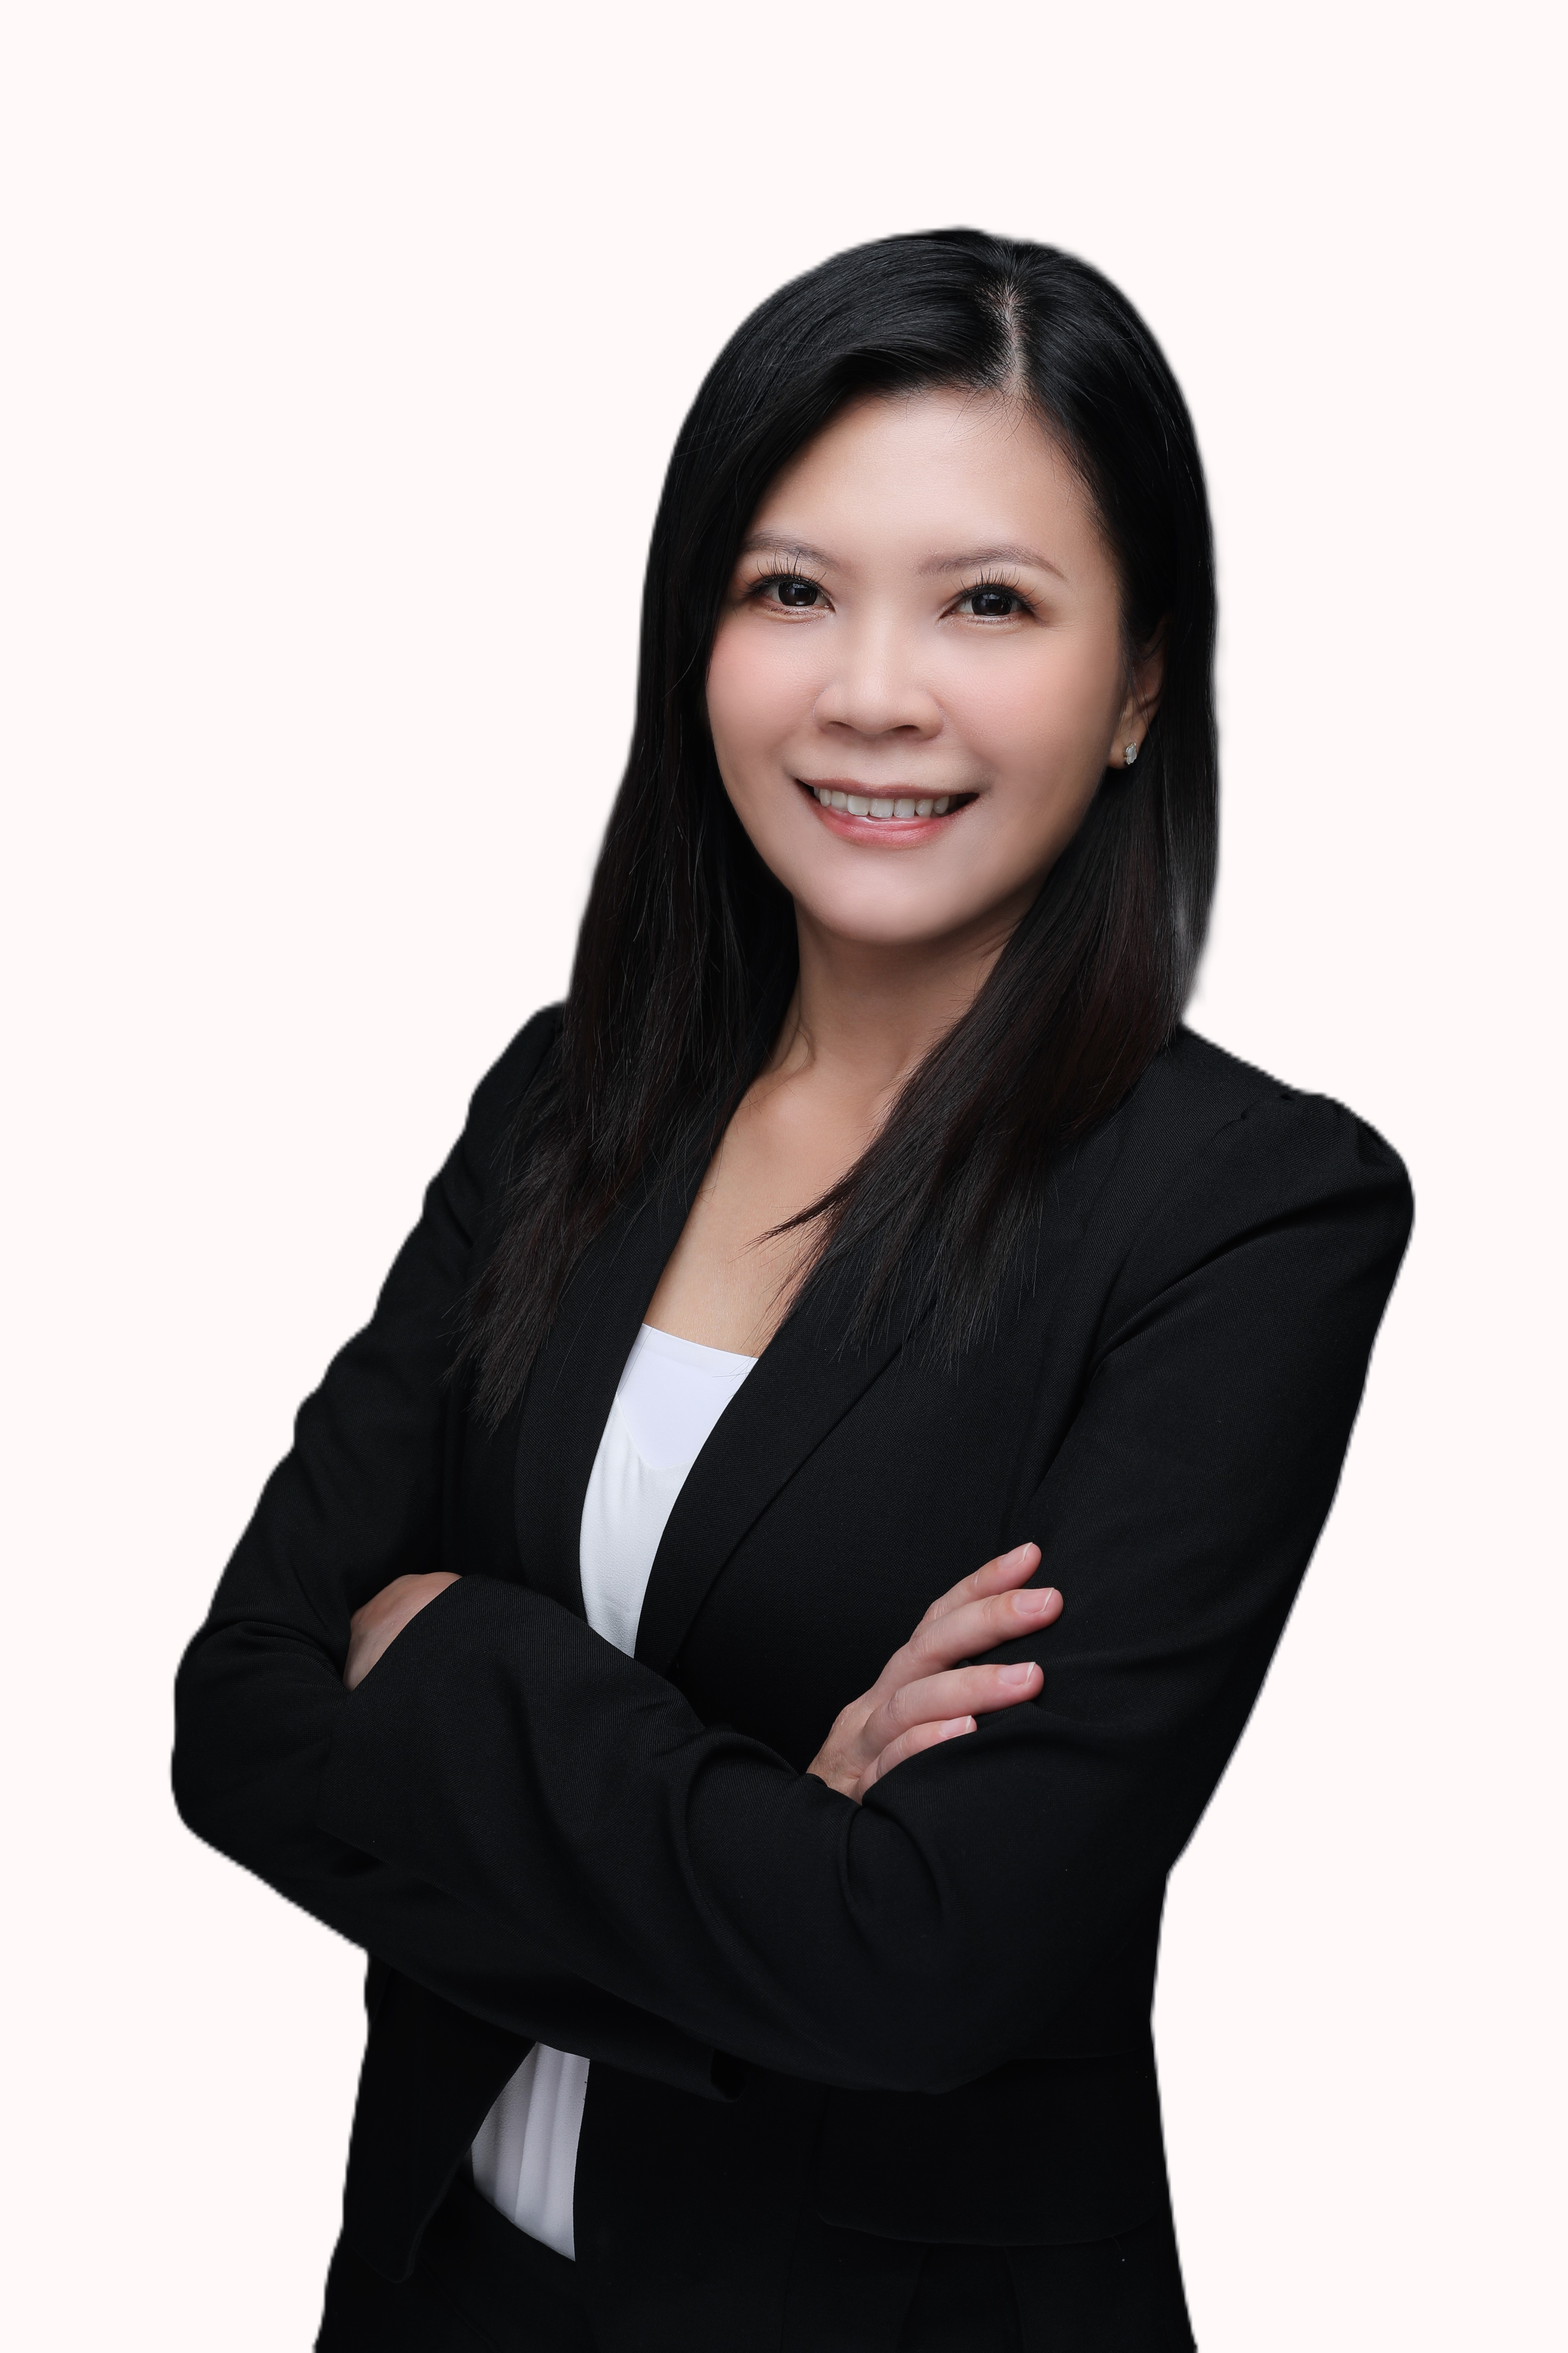
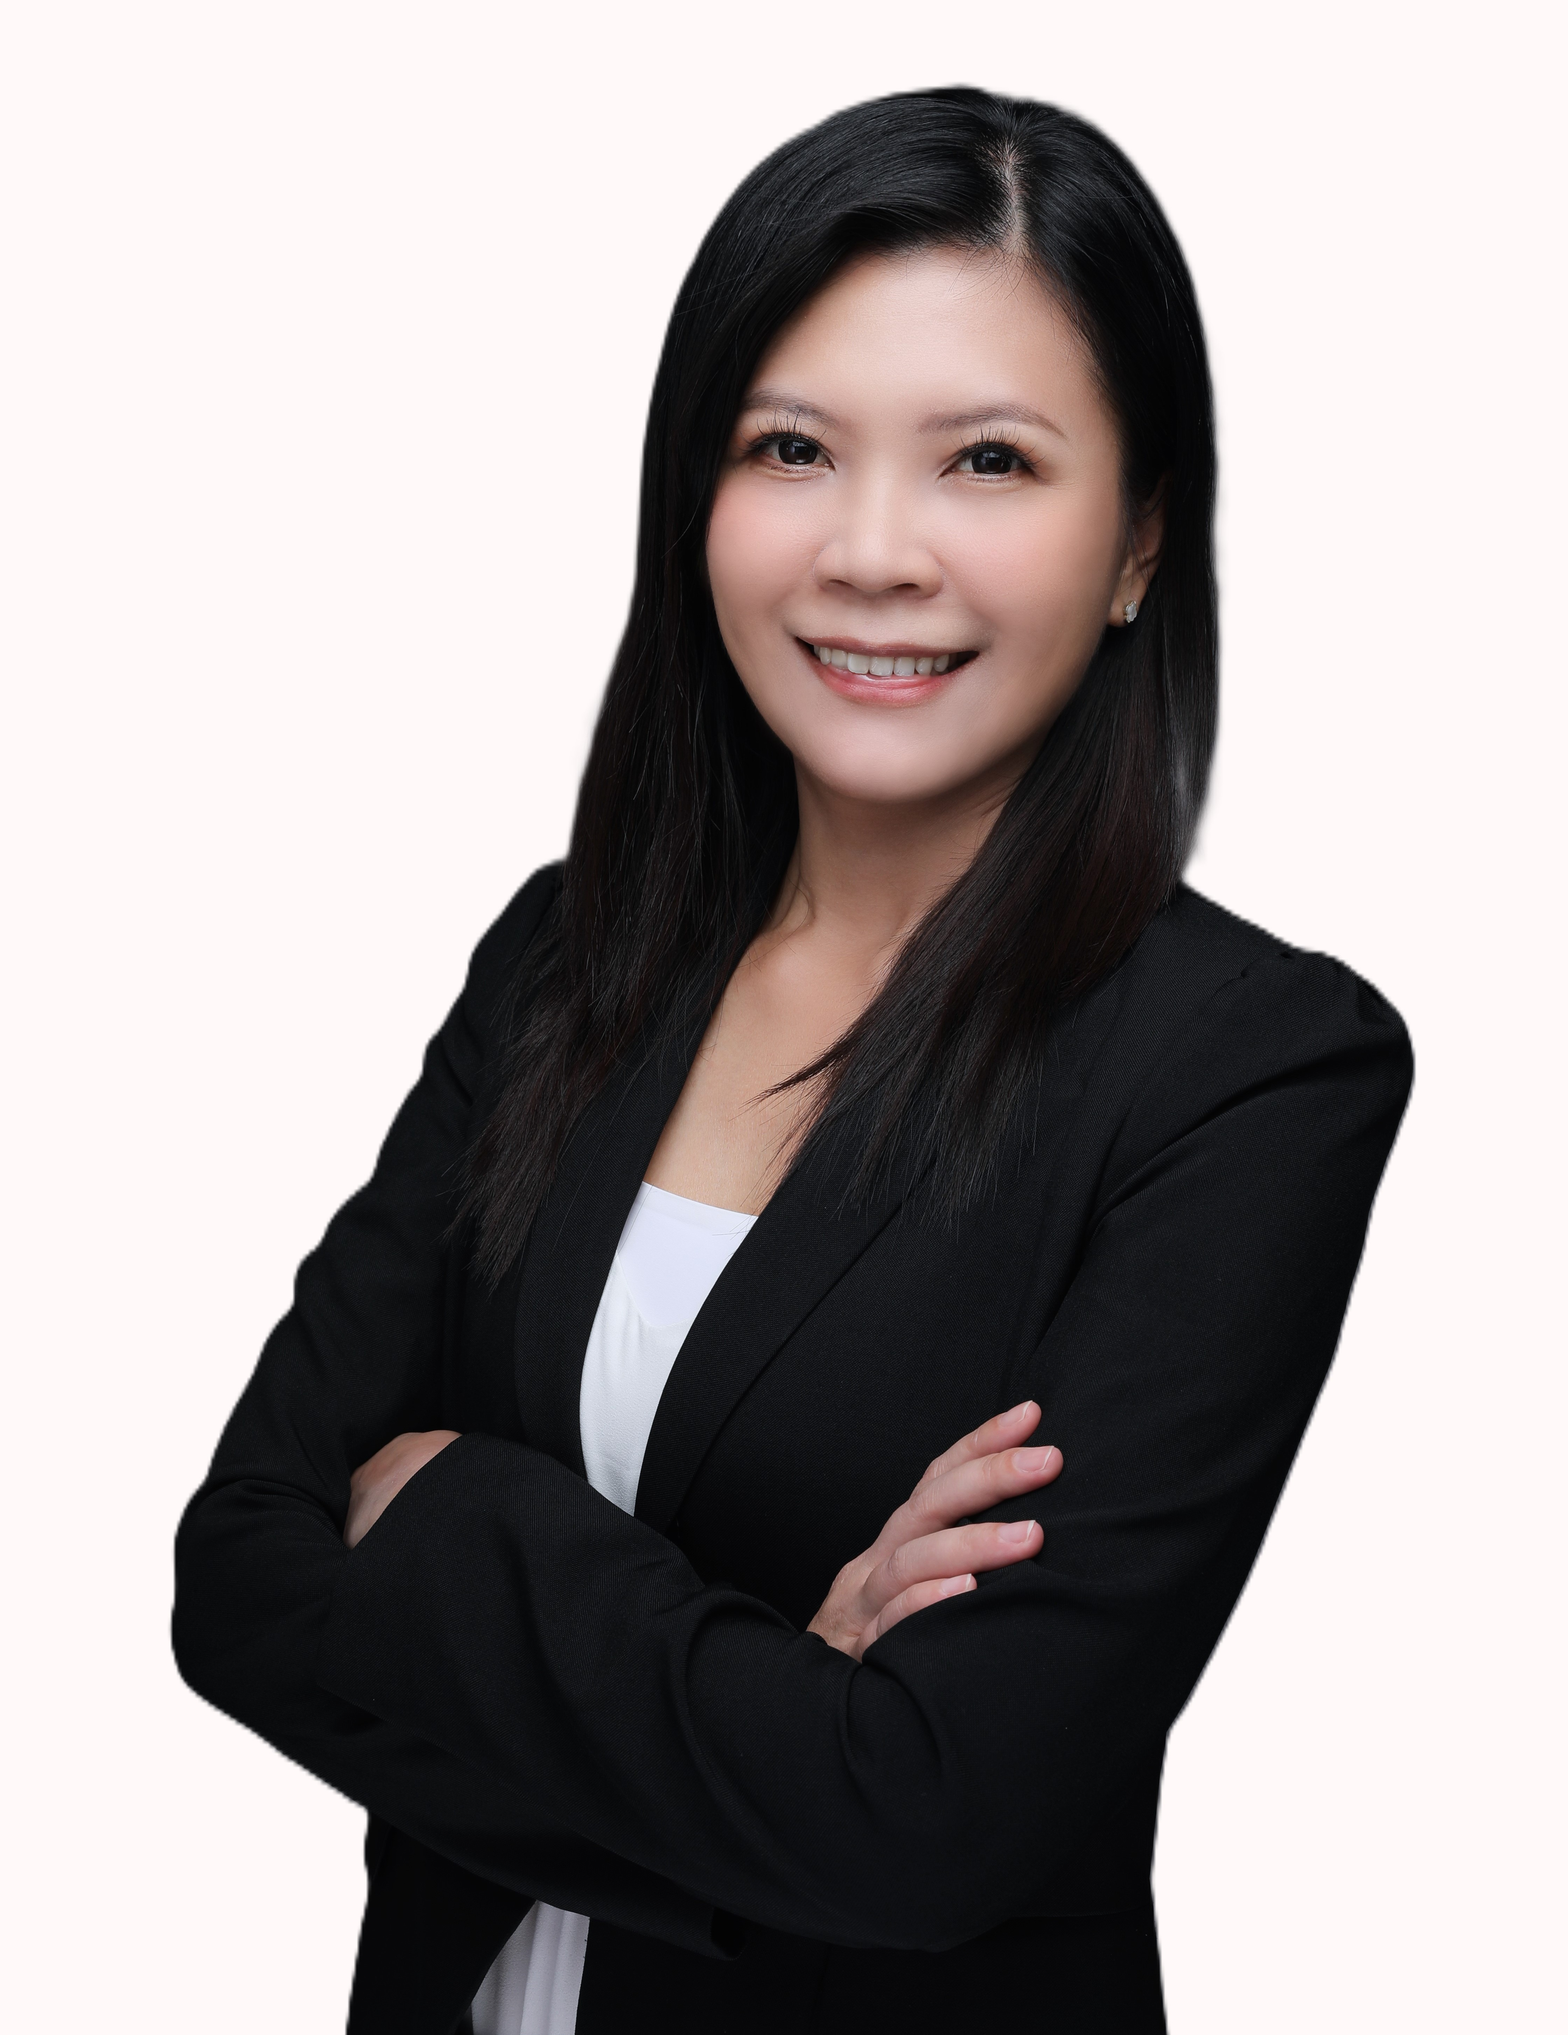
主管簡介 照片大小調整

diff --git a/src/components/ManagerCard.vue b/src/components/ManagerCard.vue
@@ -105,4 +105,7 @@ p {
     font-weight: 500;
     color: #54595f;
 }
+.img-fluid{
+    max-width: 90%;
+}
 </style>
